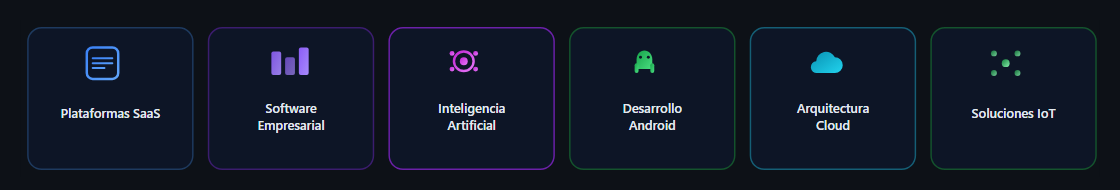
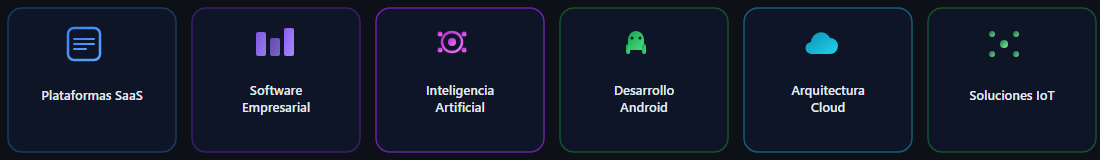
Upgrade hero with gradient name, typing line, and live stats.
Use SVG-rendered panels and GitHub widgets so the profile looks polished within README limits, without the old illustration.

diff --git a/README.md b/README.md
@@ -1,12 +1,12 @@
 <table width="100%">
   <tr>
-    <td width="62%" valign="top">
-      <h1>Hola, soy <strong>Janover Saldaña</strong></h1>
-      <p>
-        <strong>Ingeniero de Software</strong>
-        · Cofundador @
-        <a href="https://www.metasoft.pe/"><strong>Metasoft Solutions</strong></a>
-      </p>
+    <td width="64%" valign="middle">
+      <h2>Hola, soy</h2>
+      <img src="./assets/sections/name-gradient.png" alt="Janover Saldaña" height="42" />
+      <br />
+      <a href="https://readme-typing-svg.demolab.com?font=Segoe+UI&weight=600&size=20&pause=1200&color=60A5FA&center=false&vCenter=true&width=560&height=36&lines=Ingeniero+de+Software;Cofundador+%40+Metasoft+Solutions;Android+Developer+%40+NTT+DATA;SaaS+%C2%B7+Cloud+%C2%B7+IA+aplicada">
+        <img src="https://readme-typing-svg.demolab.com?font=Segoe+UI&weight=600&size=20&pause=1200&color=60A5FA&center=false&vCenter=true&width=560&height=36&lines=Ingeniero+de+Software;Cofundador+%40+Metasoft+Solutions;Android+Developer+%40+NTT+DATA;SaaS+%C2%B7+Cloud+%C2%B7+IA+aplicada" alt="Ingeniero de Software · Cofundador @ Metasoft Solutions" />
+      </a>
       <p>
         Diseño y construyo software en producción: SaaS, apps móviles, cloud e IA
         aplicada a operaciones reales. Del discovery a producción, con arquitectura
@@ -18,42 +18,28 @@
         <a href="mailto:janover@metasoft.pe"><img src="https://img.shields.io/badge/Email-janover@metasoft.pe-EA4335?style=for-the-badge&logo=gmail&logoColor=white&labelColor=0d1526" alt="Email" /></a>
       </p>
     </td>
-    <td width="4%"></td>
-    <td width="34%" valign="top">
-      <h3>Ahora</h3>
-      <p>
-        <strong>NTT DATA</strong> — Android<br />
-        <strong>Metasoft</strong> — Cofundador<br />
-        <strong>Lima, Perú</strong>
-      </p>
-      <h3>Enfoque</h3>
-      <p>
-        SaaS · Enterprise · IA<br />
-        Android · Cloud · IoT
-      </p>
-      <p>
-        <a href="#impacto-en-producción"><strong>Ver impacto →</strong></a>
-        &nbsp;·&nbsp;
-        <a href="#trayectoria"><strong>Trayectoria →</strong></a>
-      </p>
+    <td width="36%" align="center" valign="middle">
+      <img src="./assets/sections/ahora-panel.png" alt="Ahora: NTT DATA Android · Metasoft Cofundador · Lima, Perú" width="100%" />
     </td>
   </tr>
 </table>
+
+<p align="center">
+  <a href="https://github.com/JanoverSaldana">
+    <img src="https://github-readme-stats.vercel.app/api?username=JanoverSaldana&show_icons=true&theme=radical&hide_border=true&bg_color=0d1117&title_color=60a5fa&icon_color=a855f7&text_color=e2e8f0" alt="GitHub stats" height="150" />
+  </a>
+  <a href="https://github.com/JanoverSaldana">
+    <img src="https://github-readme-stats.vercel.app/api/top-langs/?username=JanoverSaldana&layout=compact&theme=radical&hide_border=true&bg_color=0d1117&title_color=60a5fa&text_color=e2e8f0" alt="Top languages" height="150" />
+  </a>
+</p>
 
 ---
 
 ## Enfoque
 
-<table width="100%">
-  <tr>
-    <td width="16%" align="center" valign="top"><strong>SaaS</strong><br /><sub>Plataformas</sub></td>
-    <td width="17%" align="center" valign="top"><strong>Enterprise</strong><br /><sub>Software</sub></td>
-    <td width="16%" align="center" valign="top"><strong>IA</strong><br /><sub>Aplicada</sub></td>
-    <td width="17%" align="center" valign="top"><strong>Android</strong><br /><sub>Nativo</sub></td>
-    <td width="17%" align="center" valign="top"><strong>Cloud</strong><br /><sub>Arquitectura</sub></td>
-    <td width="17%" align="center" valign="top"><strong>IoT</strong><br /><sub>Campo</sub></td>
-  </tr>
-</table>
+<p align="center">
+  <img src="./assets/sections/building-tiles.png" alt="SaaS · Enterprise · IA · Android · Cloud · IoT" width="100%" />
+</p>
 
 ---
 
